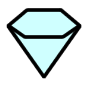
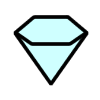
GameObjectDiamond.DiamondShineGO impelemented

Changed region(s): [[0.069, 0.093, 0.9425, 0.9302]]

diff --git a/src/main/java/hu/unideb/inf/lasersandmirrors/gameobject/GameObjectDiamond.java b/src/main/java/hu/unideb/inf/lasersandmirrors/gameobject/GameObjectDiamond.java
@@ -153,7 +153,7 @@ public class GameObjectDiamond extends GameObject implements GraphicBitmap, Inte
 	 * @return A gyémánt sugara.
 	 */
 	public double getRadius(){
-		return image.getWidth() * this.scale;
+		return image.getWidth() * this.scale / 2.0 * 0.72;
 	}
 	
 	/**
@@ -208,4 +208,109 @@ public class GameObjectDiamond extends GameObject implements GraphicBitmap, Inte
 		this.draggable = val;
 	}
 	
+	
+	
+	
+	
+	/** A csillogás objektum rasztergrafikus képe. */
+	private static BufferedImage shineImage;
+	
+	/** A csillogás objektum rasztergrafikus kép középpontjának x koordinátája. */
+	private static double shineBitmapCenterX;
+	
+	/** A csillogás objektum rasztergrafikus kép középpontjának y koordinátája. */
+	private static double shineBitmapCenterY;
+	
+	{
+		// a csillám kép betöltése
+		if(shineImage == null){
+			URL resource = Object.class.getResource("/bitmaps/DiamondShine.png");
+			try{
+				shineImage = ImageIO.read(resource);
+				shineBitmapCenterX = (double)shineImage.getWidth() / 2.0;
+				shineBitmapCenterY = (double)shineImage.getHeight() / 2.0;
+			}catch(IOException | IllegalArgumentException e){
+				logger.error("Can't load bitmap: " + resource);
+			}
+		}
+	}
+	
+	/**
+	 * Az aktuális gyémánt objektum csillogása.
+	 * 
+	 * Akkor kell megejeleníteni, ha a {@link GameObjectDiamond#isLightened()} 
+	 * igazzal tér vissza.
+	 */
+	public class DiamondShineGO extends GameObject implements GraphicBitmap {
+
+		@Override
+		public int getDepth() {
+			return Graphic.DEPTH_DIAMOND_SHINE;
+		}
+		
+		@Override
+		public double getBitmapCenterX() {
+			return shineBitmapCenterX;
+		}
+
+		@Override
+		public double getBitmapCenterY() {
+			return shineBitmapCenterY;
+		}
+		
+		@Override
+		public Image getImage() {
+			return shineImage;
+		}
+
+		@Override
+		public double getRotation() {
+			return rotation;
+		}
+		
+		@Override
+		public double getX() {
+			return x;
+		}
+
+		@Override
+		public double getY() {
+			return y;
+		}
+		
+		@Override
+		public double getScale() {
+			return scale;
+		}
+		
+		@Override
+		public String toString() {
+			return "DiamondShineGO{" + "x=" + x + ", y=" + y + '}';
+		}
+
+		/** No effect on DiamondShineGO */
+		@Deprecated
+		@Override
+		public void setRotation(double val){
+		}
+
+		/** No effect on DiamondShineGO */
+		@Deprecated
+		@Override
+		public void setX(double val) {
+		}
+
+		/** No effect on DiamondShineGO */
+		@Deprecated
+		@Override
+		public void setY(double val) {
+		}
+		
+		/** No effect on DiamondShineGO */
+		@Deprecated
+		@Override
+		public void setScale(double val) {
+		}
+		
+	}
 }

diff --git a/src/main/java/hu/unideb/inf/lasersandmirrors/Renderer.java b/src/main/java/hu/unideb/inf/lasersandmirrors/Renderer.java
@@ -2,6 +2,7 @@
 package hu.unideb.inf.lasersandmirrors;
 
 import hu.unideb.inf.lasersandmirrors.gameobject.GameObject;
+import hu.unideb.inf.lasersandmirrors.gameobject.GameObjectDiamond;
 import hu.unideb.inf.lasersandmirrors.gameobject.GraphicBitmap;
 import hu.unideb.inf.lasersandmirrors.gameobject.GameObjectLaser;
 import hu.unideb.inf.lasersandmirrors.gameobject.GraphicMultiline;
@@ -58,6 +59,12 @@ public class Renderer {
 		for (GameObject gameObject : gameObjects) {
 			if(gameObject instanceof GameObjectLaser){
 				drawables.add(((GameObjectLaser)gameObject).getLaserLine());
+			} else if(gameObject instanceof GameObjectDiamond){
+				GameObjectDiamond gameObjectDiamond = (GameObjectDiamond)gameObject;
+				if(gameObjectDiamond.isLightened()){
+					GameObjectDiamond.DiamondShineGO shine = gameObjectDiamond.new DiamondShineGO();
+					drawables.add(shine);
+				}
 			}
 			drawables.add(gameObject);
 		}

diff --git a/src/main/java/hu/unideb/inf/lasersandmirrors/gui/LevelLoaderPanel.java b/src/main/java/hu/unideb/inf/lasersandmirrors/gui/LevelLoaderPanel.java
@@ -209,7 +209,7 @@ public class LevelLoaderPanel extends javax.swing.JPanel {
     }//GEN-LAST:event_playButtonActionPerformed
 
     private void editButtonActionPerformed(java.awt.event.ActionEvent evt) {//GEN-FIRST:event_editButtonActionPerformed
-        // TODO: Edit button
+        // TODO: Edit button (v0.2)
     }//GEN-LAST:event_editButtonActionPerformed
 
     private void levelsListValueChanged(javax.swing.event.ListSelectionEvent evt) {//GEN-FIRST:event_levelsListValueChanged

diff --git a/src/main/java/hu/unideb/inf/lasersandmirrors/Game.java b/src/main/java/hu/unideb/inf/lasersandmirrors/Game.java
@@ -8,7 +8,7 @@ import hu.unideb.inf.lasersandmirrors.gui.PlaygroundFrame;
 import java.awt.Color;
 
 /*
- * PENDING: v0.2: falak, színek, jobb képek
+ * PENDING: v0.2: falak, színek
  * 
  * TODO: Progkörny: JUnit (assertEquals("ennek kellene lennie", testMethod()), @Before, @Test)
  * TODO: Swing-es komponensek javadoc-ja.

diff --git a/src/main/java/hu/unideb/inf/lasersandmirrors/gameobject/GameObjectLaserline.java b/src/main/java/hu/unideb/inf/lasersandmirrors/gameobject/GameObjectLaserline.java
@@ -6,7 +6,7 @@ import java.awt.geom.Point2D;
 import java.util.ArrayList;
 import java.util.List;
 
-
+// TODO: a GameObjectLaserline kötődhetne a lézeréhez (beágyazott osztály, mint a gyémántnál)
 /**
  * Egy lézer vonalait tároló objektum.
  *

diff --git a/src/main/java/hu/unideb/inf/lasersandmirrors/Controller.java b/src/main/java/hu/unideb/inf/lasersandmirrors/Controller.java
@@ -242,7 +242,6 @@ public class Controller {
 				for (LineSegment2D line : lines) {
 					if(line.distance(diamondOrigo) < radius){
 						diamond.setLightened(true);
-						// TODO: gyémánt csillámlás
 						break;
 					}
 				}
